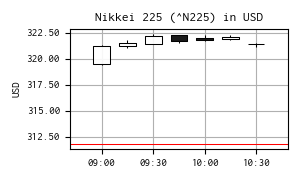
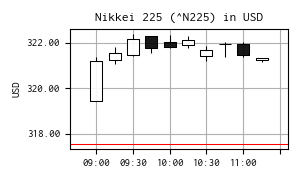
update

diff --git a/widgets/charts.py b/widgets/charts.py
@@ -14,7 +14,7 @@ from matplotlib.figure import Figure
 
 from funcs.technical import calc_ma, calc_msd, calc_miqr
 from structs.res import AppRes
-from widgets.containers import Widget
+from widgets.containers import Widget, ScrollArea
 from widgets.layouts import VBoxLayout
 
 
@@ -187,7 +187,7 @@ class TickChart(Chart):
         self.ax.set_ylabel(f"{self.space}Price [JPY]")
 
         # プロット (y2)
-        lns4= self.ax2.plot(ser_miqr, color="C2", linewidth=0.75, linestyle="solid", label=colname_miqr)
+        lns4 = self.ax2.plot(ser_miqr, color="C2", linewidth=0.75, linestyle="solid", label=colname_miqr)
         x = ser_miqr.index
         y = ser_miqr.values
         self.ax2.fill_between(
@@ -213,10 +213,72 @@ class TickChart(Chart):
         lns = lns1 + lns2 + lns3 + lns4
         labs = [l.get_label() for l in lns]
         self.ax.legend(lns, labs, bbox_to_anchor=(1, 1), loc='upper right', borderaxespad=0.25, fontsize=7)
-        #self.ax.legend(bbox_to_anchor=(1, 1), loc='upper right', borderaxespad=0.5, fontsize=7)
+        # self.ax.legend(bbox_to_anchor=(1, 1), loc='upper right', borderaxespad=0.5, fontsize=7)
 
         # 再描画
         self.canvas.draw()
+
+
+class ObsChart(ScrollArea):
+    """
+    観測値チャート用
+    """
+
+    def __init__(self, res: AppRes):
+        super().__init__()
+        # フォント設定
+        fm.fontManager.addfont(res.path_monospace)
+        font_prop = fm.FontProperties(fname=res.path_monospace)
+        plt.rcParams["font.family"] = font_prop.get_name()
+        plt.rcParams["font.size"] = 11
+        # ダークモードの設定
+        # plt.style.use("dark_background")
+
+        # Figure オブジェクト
+        self.fig = Figure()
+        self.canvas = FigureCanvas(self.fig)
+        self.canvas.setSizePolicy(
+            QSizePolicy.Policy.Expanding,
+            QSizePolicy.Policy.Expanding
+        )
+        self.canvas.updateGeometry()
+
+        # レイアウトに追加
+        # layout = VBoxLayout()
+        # layout.addWidget(self.canvas)
+        # self.setLayout(layout)
+        self.setWidget(self.canvas)
+
+        # 軸領域
+        self.ax = self.fig.add_subplot(111)
+
+        # 余白設定
+        self.fig.subplots_adjust(
+            left=0.05,
+            right=0.96,
+            top=0.94,
+            bottom=0.06,
+        )
+
+    def removeAxes(self):
+        axs = self.fig.axes
+        for ax in axs:
+            ax.remove()
+
+    def updateData(self, df: pd.DataFrame, title: str = ""):
+        self.removeAxes()
+        n = len(df.columns)
+        list_height_ratio = [1 for r in range(n)]
+        gs = self.fig.add_gridspec(
+            n, 1,
+            wspace=0.0, hspace=0.0,
+            height_ratios=list_height_ratio
+        )
+        ax = dict()
+        for i, axis in enumerate(gs.subplots(sharex="col")):
+            ax[i] = axis
+            ax[i].xaxis.set_major_formatter(mdates.DateFormatter("%H:%M"))
+            ax[i].grid()
 
 
 class TrendChart(FigureCanvas):

diff --git a/modules/win_obs.py b/modules/win_obs.py
@@ -1,0 +1,33 @@
+import logging
+
+import pandas as pd
+
+from structs.res import AppRes
+from widgets.charts import ChartNavigation, ObsChart
+from widgets.containers import MainWindow
+from widgets.statusbars import StatusBar
+
+
+class WinObs(MainWindow):
+    def __init__(self, res: AppRes):
+        super().__init__()
+        self.logger = logging.getLogger(__name__)
+        self.res = res
+
+        # ---------------------------------------------------------------------
+        # チャート
+        # ---------------------------------------------------------------------
+        self.chart = chart = ObsChart(res)
+        self.setCentralWidget(chart)
+
+        # ---------------------------------------------------------------------
+        # ステータスバー
+        # ---------------------------------------------------------------------
+        self.statusbar = statusbar = StatusBar(res)
+        statusbar.setSizeGripEnabled(False)
+        navbar = ChartNavigation(chart.canvas)
+        statusbar.addWidget(navbar)
+        self.setStatusBar(statusbar)
+
+    def draw(self, df: pd.DataFrame, title: str = ""):
+        self.chart.updateData(df, title)

diff --git a/modules/prophet.py b/modules/prophet.py
@@ -12,6 +12,7 @@ from funcs.ios import get_excel_sheet
 from funcs.plot import plot_obs_trend
 from funcs.tide import get_datetime_str
 from modules.agent import WorkerAgent
+from modules.win_obs import WinObs
 from widgets.toolbars import ToolBarProphet
 from structs.app_enum import AppMode
 from modules.win_tick import WinTick
@@ -92,6 +93,8 @@ class Prophet(QMainWindow):
         # ---------------------------------------------------------------------
         self.win_tick = win_tick = WinTick(res)
         tabbase.addTab(win_tick, "ティックチャート")
+        self.win_obj = win_obs = WinObs(res)
+        tabbase.addTab(win_obs, "観測値チャート")
 
     def finished_trading(self):
         # ベンチマーク計測
@@ -153,7 +156,8 @@ class Prophet(QMainWindow):
             [datetime.datetime.fromtimestamp(ts) for ts in df_obs["Timestamp"]]
         )
         cols = [l for l in df_obs.columns if l not in ["Timestamp", "Volume"]]
-        plot_obs_trend(df_obs[cols])
+        # plot_obs_trend(df_obs[cols])
+        self.win_obj.draw(df_obs[cols])
 
     def plot_tick(self, dict_param: dict):
         self.dict_param = dict_param

diff --git a/widgets/containers.py b/widgets/containers.py
@@ -5,7 +5,7 @@ from PySide6.QtWidgets import (
     QMainWindow,
     QSizePolicy,
     QTabWidget,
-    QWidget,
+    QWidget, QScrollArea,
 )
 
 from structs.res import AppRes
@@ -221,3 +221,9 @@ class PanelOption(QFrame):
 
     def setAutoPilotEnabled(self, state: bool = True):
         self.autopilot.setChecked(state)
+
+class ScrollArea(QScrollArea):
+    def __init__(self):
+        super().__init__()
+        self.setContentsMargins(QMargins(0, 0, 0, 0))
+        self.setWidgetResizable(True)
